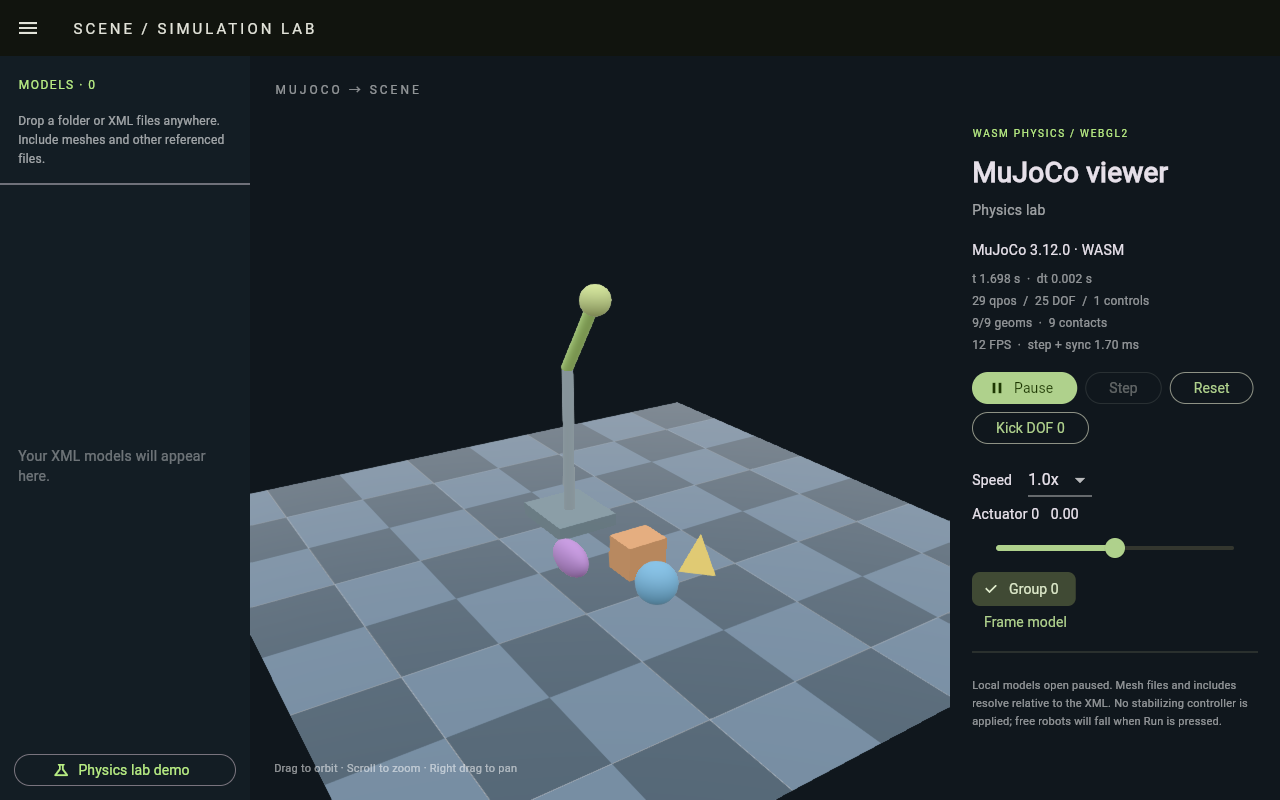
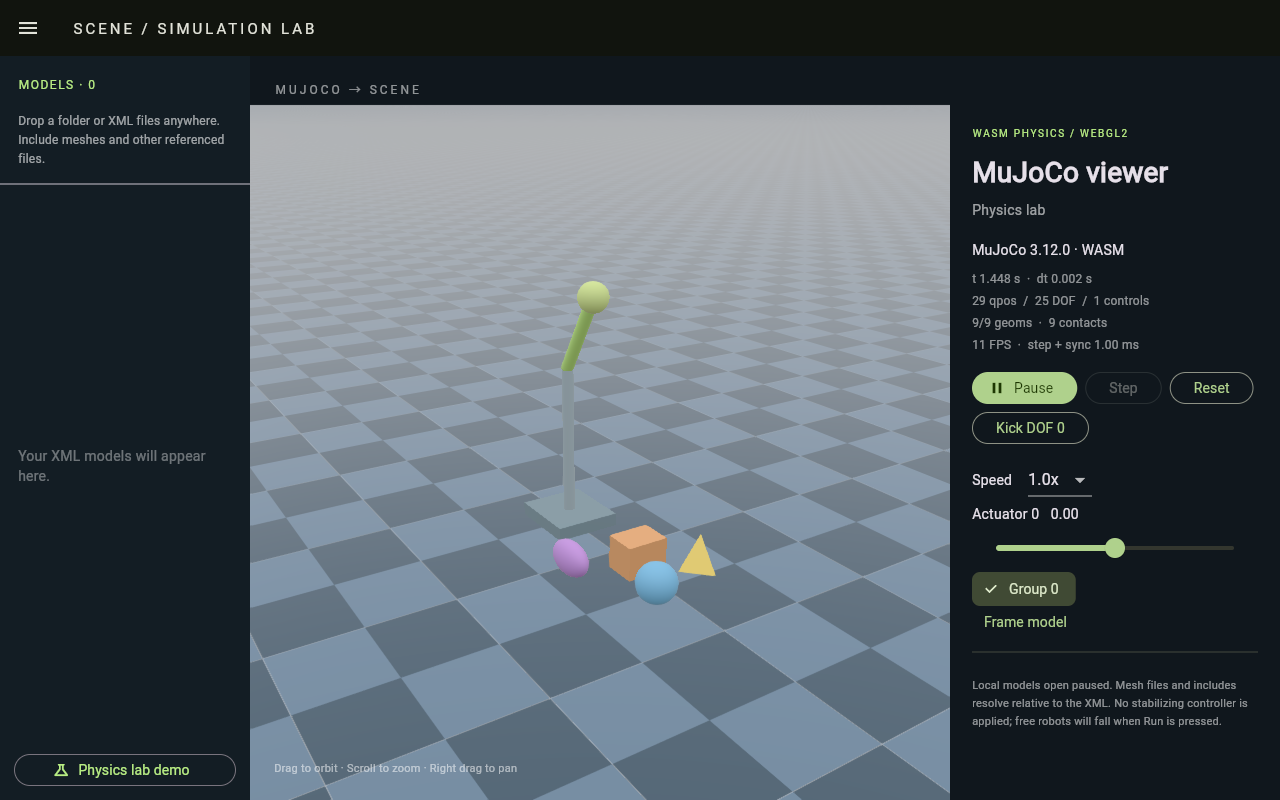
inifite plane

Changed region(s): [[0.1875, 0.125, 0.75, 0.6562], [0.5938, 0.875, 0.75, 1.0], [0.1875, 0.8125, 0.2812, 1.0]]

diff --git a/packages/mujoco_viewer/lib/src/controller.dart b/packages/mujoco_viewer/lib/src/controller.dart
@@ -51,6 +51,8 @@ class MujocoViewerController extends ChangeNotifier {
     world.add(root);
     cameraNode.addComponent(camera);
     cameraNode.addComponent(orbit);
+    // Components run in attachment order, after this frame's camera movement.
+    cameraNode.addComponent(_InfinitePlanesUpdater(this));
     world.add(cameraNode);
     for (var i = 0; i < model.ngeom; i++) {
       _addGeom(i);
@@ -76,6 +78,8 @@ class MujocoViewerController extends ChangeNotifier {
   final Map<int, scene.Node> nodes = {};
   final Map<int, scene.Geometry> _meshCache = {};
   final Map<int, scene.Texture2D> _textureCache = {};
+  final Map<int, _InfinitePlanePatch> _infinitePlanes = {};
+  double _aspectRatio = 1;
   final List<String> warnings = [];
   final Set<int> groups = {};
   final Set<int> hiddenGroups = {};
@@ -98,6 +102,9 @@ class MujocoViewerController extends ChangeNotifier {
           positions: surface.positions,
           normals: surface.normals,
           texCoords: surface.texCoords,
+          storage: size[0] <= 0 || size[1] <= 0
+              ? scene.GeometryStorage.updatable
+              : scene.GeometryStorage.fixed,
         );
       case 2:
         geometry = scene.SphereGeometry(radius: size[0]);
@@ -155,6 +162,14 @@ class MujocoViewerController extends ChangeNotifier {
         math.pi / 2,
       );
     }
+    if (type == 0 && (size[0] <= 0 || size[1] <= 0)) {
+      _infinitePlanes[id] = _InfinitePlanePatch(
+        geom,
+        shape,
+        geometry as scene.MeshGeometry,
+        math.max(20, model.extent * 4),
+      );
+    }
     final node = scene.Node(name: model.geomById(id).name)..add(shape);
     nodes[id] = node;
     groups.add(geom.group);
@@ -185,12 +200,48 @@ class MujocoViewerController extends ChangeNotifier {
     notifyListeners();
   }
 
-  void sync() {
+  /// Synchronizes compiled geom poses and the viewport used by infinite planes.
+  ///
+  /// The viewer widget supplies [aspectRatio] automatically. Custom rendering loops
+  /// should pass their render target's width divided by height.
+  void sync({double? aspectRatio}) {
+    if (aspectRatio != null && aspectRatio.isFinite && aspectRatio > 0) {
+      _aspectRatio = aspectRatio;
+    }
     for (final entry in nodes.entries) {
       entry.value.localTransform = geomTransform(
         data.geomPosition(entry.key).toList(),
         data.geomRotation(entry.key).toList(),
       );
+    }
+  }
+
+  void _syncInfinitePlanes() {
+    if (_infinitePlanes.isEmpty) return;
+    final reach = projectionReach(
+      camera.projection.getProjectionMatrix(_aspectRatio),
+    );
+    final eye = camera.toCamera().position;
+    final mujocoEye = vm.Vector3(eye.x, -eye.z, eye.y);
+    for (final entry in _infinitePlanes.entries) {
+      final patch = entry.value;
+      final inverse = vm.Matrix4.inverted(nodes[entry.key]!.localTransform);
+      final localEye = inverse.transform3(mujocoEye);
+      final placement = infinitePlanePlacement(
+        patch.geom,
+        localEye,
+        viewReach: reach,
+      );
+      if ((placement.halfExtent - patch.halfExtent).abs() > 1e-6) {
+        final surface = planeSurface(
+          patch.geom,
+          infiniteHalfExtent: placement.halfExtent,
+        );
+        patch.geometry.updatePositions(surface.positions);
+        patch.geometry.updateTexCoords(surface.texCoords);
+        patch.halfExtent = placement.halfExtent;
+      }
+      patch.shape.position = placement.center;
     }
   }
 
@@ -204,6 +255,7 @@ class MujocoViewerController extends ChangeNotifier {
       ),
     );
     orbit.update(1);
+    _syncInfinitePlanes();
   }
 
   @override
@@ -213,6 +265,21 @@ class MujocoViewerController extends ChangeNotifier {
     nodes.clear();
     _meshCache.clear();
     _textureCache.clear();
+    _infinitePlanes.clear();
     super.dispose();
   }
+}
+
+class _InfinitePlanePatch {
+  _InfinitePlanePatch(this.geom, this.shape, this.geometry, this.halfExtent);
+  final MjGeomInfo geom;
+  final scene.Node shape;
+  final scene.MeshGeometry geometry;
+  double halfExtent;
+}
+
+class _InfinitePlanesUpdater(final MujocoViewerController controller)
+    extends scene.Component {
+  @override
+  void update(double deltaSeconds) => controller._syncInfinitePlanes();
 }

diff --git a/packages/mujoco_viewer/test/plane_surface_test.dart b/packages/mujoco_viewer/test/plane_surface_test.dart
@@ -1,5 +1,8 @@
 import 'dart:typed_data';
 
+import 'package:vector_math/vector_math.dart' as vm;
+import 'package:flutter_scene/scene.dart' as scene;
+
 import 'package:flutter_test/flutter_test.dart';
 import 'package:mujoco/mujoco.dart';
 import 'package:mujoco_viewer/src/plane_surface.dart';
@@ -7,6 +10,7 @@ import 'package:mujoco_viewer/src/plane_surface.dart';
 MjGeomInfo floor({
   List<double> size = const [2, 3, .1],
   bool uniform = false,
+  List<double> repeat = const [2, 4],
 }) => MjGeomInfo(
   id: 0,
   name: 'floor',
@@ -18,11 +22,68 @@ MjGeomInfo floor({
   roughness: 1,
   meshId: -1,
   materialId: 0,
-  textureRepeat: const [2, 4],
+  textureRepeat: repeat,
   textureUniform: uniform,
 );
 
 void main() {
+  test(
+    'Infinite patches follow distant cameras without changing finite axes',
+    () {
+      final patch = infinitePlanePlacement(
+        floor(size: [0, 3, .1]),
+        vm.Vector3(10001.3, -7000, 20),
+        viewReach: 100,
+      );
+      expect(patch.center.x, 10002);
+      expect(patch.center.y, 0);
+      expect(patch.center.z, 0);
+      expect(patch.halfExtent, greaterThan(100 + .7));
+    },
+  );
+
+  test('Recentering preserves whole texture periods in both directions', () {
+    final geom = floor(size: [0, 0, .1]);
+    final a = infinitePlanePlacement(
+      geom,
+      vm.Vector3(-123.4, 456.7, 8),
+      viewReach: 100,
+    );
+    final b = infinitePlanePlacement(
+      geom,
+      vm.Vector3(234.5, -789.2, 8),
+      viewReach: 100,
+    );
+    for (var axis = 0; axis < 2; axis++) {
+      final periods =
+          (b.center[axis] - a.center[axis]) * .5 * geom.textureRepeat[axis];
+      expect(periods, closeTo(periods.roundToDouble(), 1e-9));
+    }
+  });
+
+  test('Nonpositive repeat uses the same stable fallback as plane UVs', () {
+    final geom = floor(size: [0, 0, .1], repeat: [0, -1]);
+    final patch = infinitePlanePlacement(
+      geom,
+      vm.Vector3(5, -5, 0),
+      viewReach: 100,
+    );
+    expect(patch.center, vm.Vector3(4, -4, 0));
+  });
+
+  test('Patch bounds cover wide perspective and orthographic frusta', () {
+    final perspective = scene.PerspectiveProjection();
+    final normal = projectionReach(perspective.getProjectionMatrix(1));
+    final wide = projectionReach(perspective.getProjectionMatrix(4));
+    expect(wide, greaterThan(normal));
+    expect(normal, greaterThan(1000));
+    final orthographic = scene.OrthographicProjection();
+    expect(
+      projectionReach(orthographic.getProjectionMatrix(4)),
+      greaterThanOrEqualTo(1000),
+    );
+  });
+
   test(
     'Plane vertices stay exactly on the collision surface with upward winding',
     () {

diff --git a/examples/viewer/tool/web_smoke_app.dart b/examples/viewer/tool/web_smoke_app.dart
@@ -3,6 +3,8 @@ import 'dart:js_interop';
 import 'dart:js_interop_unsafe';
 import 'dart:typed_data';
 
+import 'package:vector_math/vector_math.dart' as vm;
+
 import 'package:flutter_scene_lab/model_assets.dart';
 import 'package:flutter_scene_lab/simulation.dart';
 
@@ -263,28 +265,42 @@ class _SmokeState extends State<Smoke> {
         return;
       }
       setState(() => viewer = controller);
-      WidgetsBinding.instance.addPostFrameCallback((_) {
-        report({
-          'status': 'passed',
-          'version': s.version,
-          'geoms': s.geomCount,
-          'meshes': s.model.nmesh,
-          'checks': [
-            'gravity',
-            'fixed step',
-            'geom poses',
-            'control arrays',
-            'actuator metadata',
-            'mesh snapshots',
-            'body force views',
-            'sensor metadata',
-            'disposed views',
-            'VFS assets',
-            'compiled ground texture and repeat',
-            'public VFS ownership and reuse',
-            'Flutter viewer mounted',
-          ],
-        });
+      await WidgetsBinding.instance.endOfFrame;
+      final originalPose = s.data.geomPosition(0).toList();
+      controller.orbit.target = vm.Vector3(10000, 0, -10000);
+      controller.orbit.update(1);
+      await Future<void>.delayed(const Duration(milliseconds: 150));
+      final patch = controller.nodes[0]!.children.first.position;
+      check(
+        patch.x > 9900 && patch.y > 9900 && patch.z == 0,
+        'Infinite ground did not follow the distant camera',
+      );
+      check(
+        s.data.geomPosition(0).toList().join(',') == originalPose.join(','),
+        'Visual recentering changed the physical plane',
+      );
+      controller.frameModel();
+      report({
+        'status': 'passed',
+        'version': s.version,
+        'geoms': s.geomCount,
+        'meshes': s.model.nmesh,
+        'checks': [
+          'gravity',
+          'fixed step',
+          'geom poses',
+          'control arrays',
+          'actuator metadata',
+          'mesh snapshots',
+          'body force views',
+          'sensor metadata',
+          'disposed views',
+          'VFS assets',
+          'compiled ground texture and repeat',
+          'public VFS ownership and reuse',
+          'Flutter viewer mounted',
+          'infinite plane follows distant camera without moving physics',
+        ],
       });
     } catch (e, stack) {
       report({'status': 'failed', 'error': '$e', 'stack': '$stack'});

diff --git a/packages/mujoco_viewer/lib/src/plane_surface.dart b/packages/mujoco_viewer/lib/src/plane_surface.dart
@@ -2,6 +2,7 @@ import 'dart:math' as math;
 import 'dart:typed_data';
 
 import 'package:mujoco/mujoco.dart';
+import 'package:vector_math/vector_math.dart' as vm;
 
 // Matches MuJoCo 3.12's classic plane UVs and texture-matrix scaling.
 ({Float32List positions, Float32List normals, Float32List texCoords})
@@ -84,4 +85,50 @@ Uint8List textureRgba(MjTextureInfo texture) {
     };
   }
   return rgba;
+}
+
+// Bounds every point in a finite camera frustum, including wide and orthographic
+// views. Scene camera projections use depth 0..1 before renderer adjustments.
+double projectionReach(vm.Matrix4 projection) {
+  final inverse = vm.Matrix4.copy(projection);
+  if (inverse.invert() == 0) {
+    throw ArgumentError('Camera projection is singular');
+  }
+  var reach = 0.0;
+  for (final x in [-1.0, 1.0]) {
+    for (final y in [-1.0, 1.0]) {
+      for (final z in [0.0, 1.0]) {
+        final point = inverse.transform(vm.Vector4(x, y, z, 1));
+        final distance =
+            math.sqrt(
+              point.x * point.x + point.y * point.y + point.z * point.z,
+            ) /
+            point.w.abs();
+        if (!distance.isFinite) {
+          throw ArgumentError('Camera needs a finite far clip');
+        }
+        reach = math.max(reach, distance);
+      }
+    }
+  }
+  return reach;
+}
+
+// MuJoCo snaps the visual center by 2 * (2 / texrepeat). Two complete repeats
+// preserve the sampled texture phase while the finite patch follows the eye.
+({vm.Vector3 center, double halfExtent}) infinitePlanePlacement(
+  MjGeomInfo geom,
+  vm.Vector3 localEye, {
+  required double viewReach,
+}) {
+  final center = vm.Vector3.zero();
+  var margin = 0.0;
+  for (var axis = 0; axis < 2; axis++) {
+    if (geom.size[axis] > 0) continue;
+    final repeat = geom.textureRepeat[axis];
+    final step = repeat > 0 ? 4 / repeat : 4.0;
+    center[axis] = (localEye[axis] / step).roundToDouble() * step;
+    margin = math.max(margin, step * 0.5);
+  }
+  return (center: center, halfExtent: viewReach * 1.05 + margin);
 }

diff --git a/packages/mujoco_viewer/lib/src/viewer.dart b/packages/mujoco_viewer/lib/src/viewer.dart
@@ -10,14 +10,16 @@ class MujocoViewer extends StatelessWidget {
   final MujocoViewerController controller;
   final void Function(Duration elapsed, double deltaSeconds)? onTick;
   @override
-  Widget build(BuildContext context) => scene.CameraControls(
-    controller: controller.orbit,
-    child: scene.SceneView(
-      controller.world,
-      onTick: (elapsed, dt) {
-        onTick?.call(elapsed, dt);
-        controller.sync();
-      },
+  Widget build(BuildContext context) => LayoutBuilder(
+    builder: (context, bounds) => scene.CameraControls(
+      controller: controller.orbit,
+      child: scene.SceneView(
+        controller.world,
+        onTick: (elapsed, dt) {
+          onTick?.call(elapsed, dt);
+          controller.sync(aspectRatio: bounds.maxWidth / bounds.maxHeight);
+        },
+      ),
     ),
   );
 }

diff --git a/packages/mujoco_viewer/README.md b/packages/mujoco_viewer/README.md
@@ -37,7 +37,7 @@ Unmount the widget, dispose its controller, then dispose caller-owned data and m
 
 Supports orbit/pan/zoom; `frameModel`, `setGroup`, and `sync` are available on the controller. It reads compiled geom poses, primitive sizes, PBR colors and mesh triangles through portable API snapshots. The scene root converts MuJoCo Z-up to Scene Y-up once. It does not parse MJCF or recompute robot forward kinematics.
 
-Supported geometry: plane, sphere, capsule, ellipsoid, cylinder, box and triangle mesh. Unsupported geom kinds are listed in `controller.warnings`. Infinite planes are visualized as finite patches. Plane geoms use actual flat surfaces at the compiled pose. Authored 2D base-color textures (including MuJoCo builtin checker/cross images) are copied from the compiled model and rendered with texrepeat/texuniform mapping, mipmaps and color-space conversion. Untextured planes keep their authored RGBA; no forced floor color is applied. Cube/skybox textures, non-plane texture mapping, authored lights, hfields, flex, tendons and contact-force overlays are not implemented yet. This is not yet a full replacement for every feature of the original MuJoCo viewer.
+Supported geometry: plane, sphere, capsule, ellipsoid, cylinder, box and triangle mesh. Unsupported geom kinds are listed in `controller.warnings`. Infinite plane axes follow the camera with frustum-sized patches, snapped to whole texture periods so the ground remains visually continuous. Positive plane sizes retain their authored finite extent. Plane geoms use actual flat surfaces at the compiled pose. Authored 2D base-color textures (including MuJoCo builtin checker/cross images) are copied from the compiled model and rendered with texrepeat/texuniform mapping, mipmaps and color-space conversion. Untextured planes keep their authored RGBA; no forced floor color is applied. Cube/skybox textures, non-plane texture mapping, authored lights, hfields, flex, tendons and contact-force overlays are not implemented yet. This is not yet a full replacement for every feature of the original MuJoCo viewer.
 
 The package contains no native pointer imports. Numerical stepping still runs on the caller's isolate; a dedicated simulation isolate/worker is a future optimization, not something hidden in this widget.
 

diff --git a/examples/viewer/README.md b/examples/viewer/README.md
@@ -84,4 +84,4 @@ node tool/run_web_smoke.mjs
 
 ![Folder drop and model switching](docs/drop_preview.png)
 
-默认示例的地面使用 MJCF 定义的棋盘格和十字标记。导入模型时，plane 显示模型编译后的 2D 纹理、颜色及重复设置；无纹理的地面保持原色。无限平面仍以有限可视区域显示。
+默认示例的地面使用 MJCF 定义的棋盘格和十字标记。导入模型时，plane 显示模型编译后的 2D 纹理、颜色及重复设置；无纹理的地面保持原色。size 为 0 的平面轴随相机移动并覆盖视锥，按纹理周期对齐，平移和缩放时不会露出地面边缘；正数尺寸仍保留有限范围。
